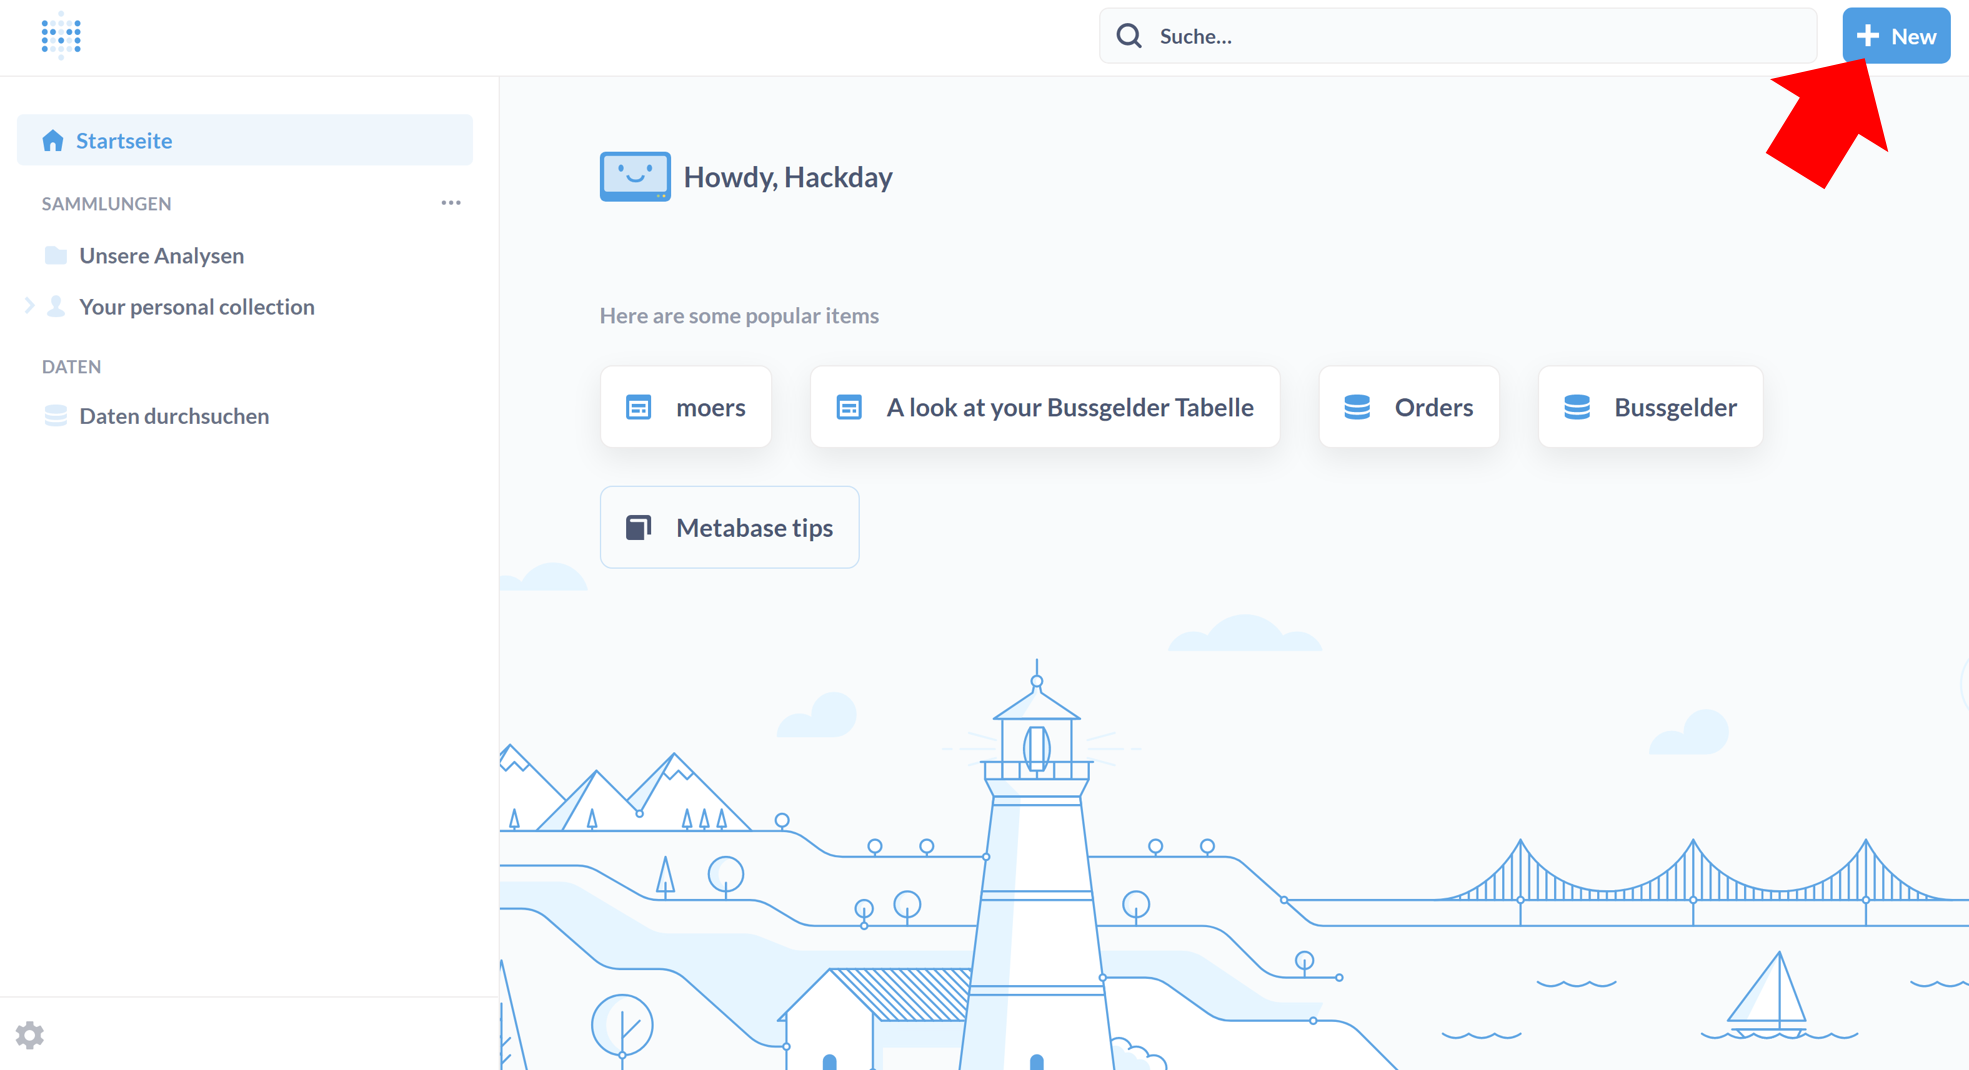
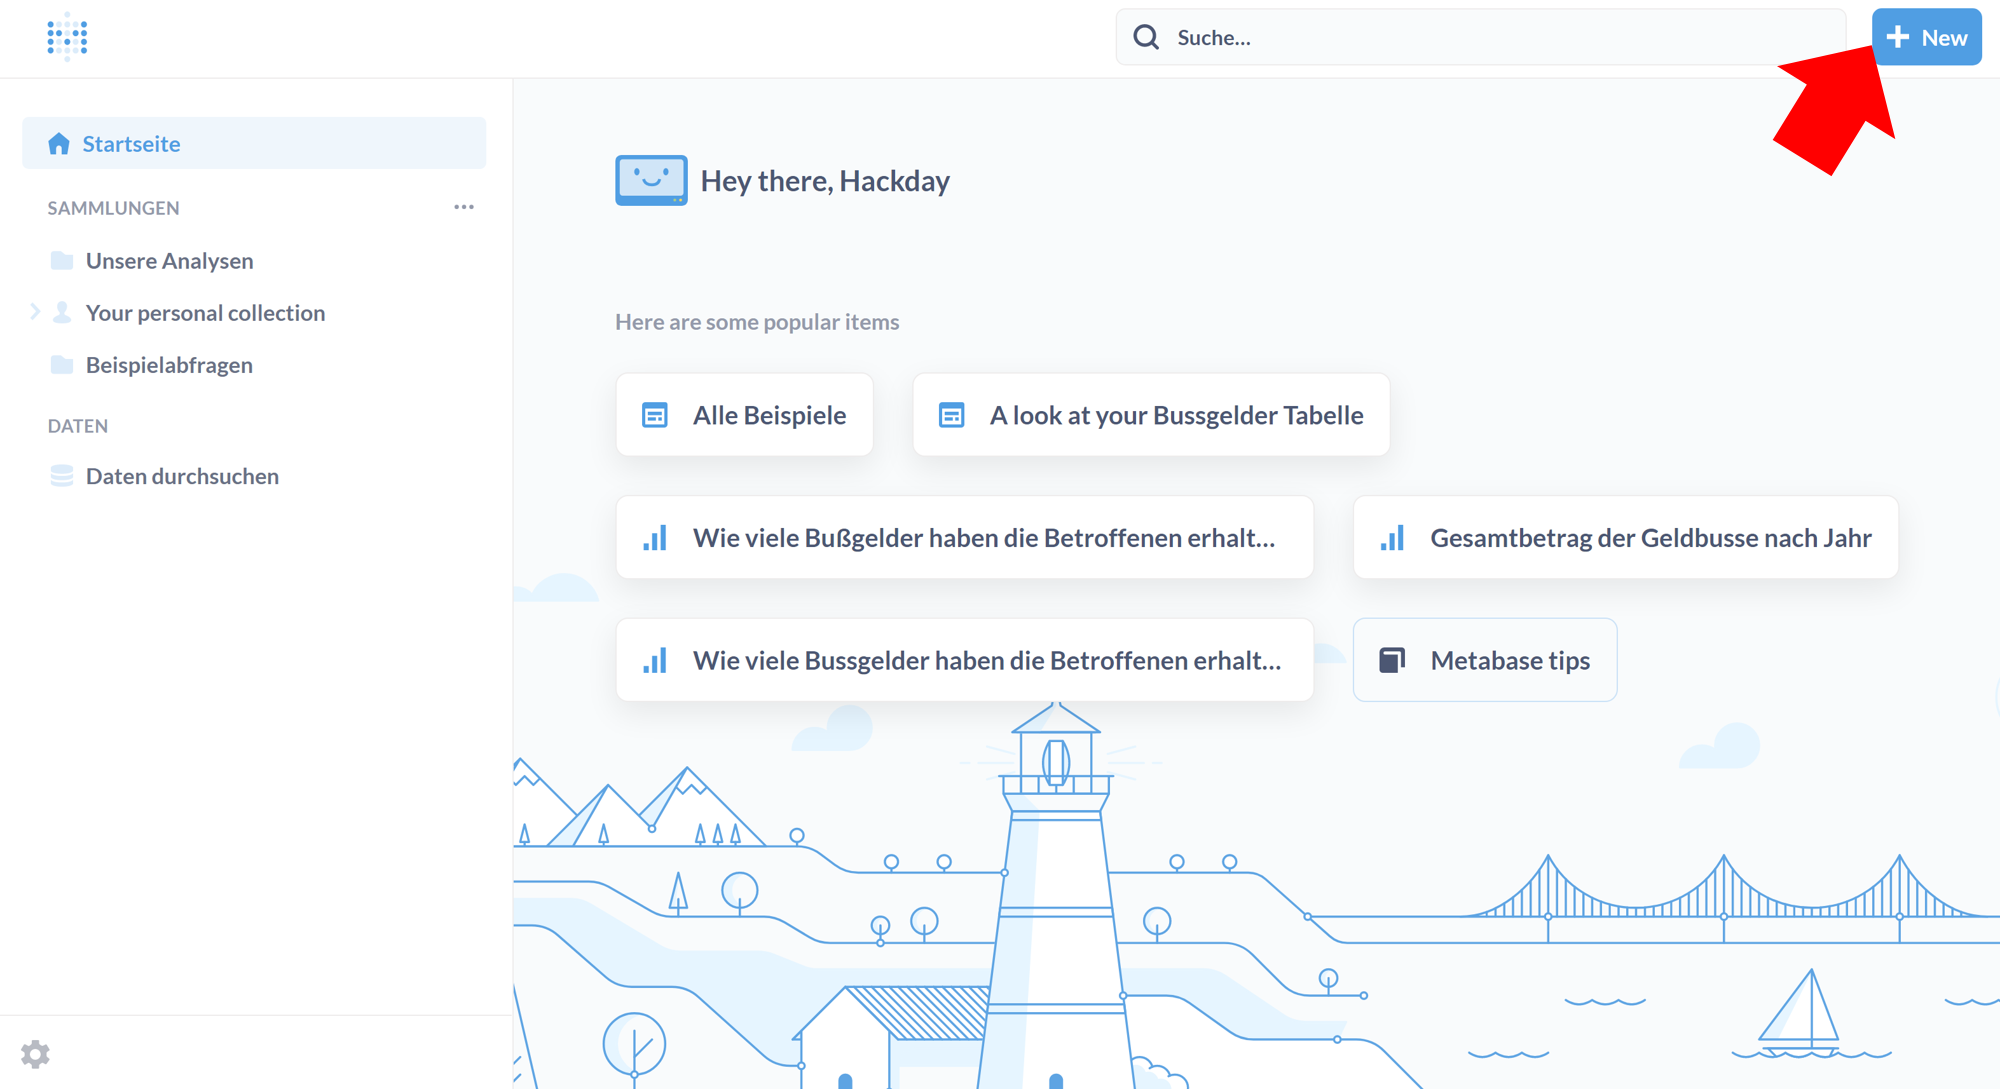
added examples

diff --git a/metabase.md b/metabase.md
@@ -1,15 +1,41 @@
 # Accessing Moers traffic data through Metabase
 
 1. Go to [metabase.open-diffix.org](https://metabase.open-diffix.org/)
-2. Login with username `hackday` and password `moers`
+2. Login with username `participant@moershackday.de` and password `moershackday2022`
 3. The dataset with the traffic data is called **Moers Hackday**
 4. The following shows how to find the SQL query editor for Moers Hackday
 
 ## Visual guide to finding the SQL editor
 
+First
+
+<img src="images/seq10.png" width="500">
+
+Second
+
+<img src="images/seq11.png" width="500">
+
+Third
+
+<img src="images/seq12.png" width="500">
+
+Fourth
+
+<img src="images/seq13.png" width="500">
+
+Fifth
+
+<img src="images/seq14.png" width="500">
+
+Last
+
+
+
 After login, you should see a page more-or-less like this:
 
 <img src="images/seq1.png" width="500">
+
+(Note that you can change the interface language by clicking on the gearbox on the lower left, clicking "Admin settings", and then "Localization".)
 
 Click on 'New' in the upper right corner (see red arrow) to get this pulldown menu:
 

diff --git a/README.md b/README.md
@@ -36,3 +36,5 @@ We offer several options for Hackday:
 [Metabase](https://www.metabase.com/) is a "Business Intelligence" tool that connects to a backend database system and let's you easily visualize data and build dashboards.  Click [here](http://metabase.open-diffix.org/public/dashboard/639cfe51-f9d5-4683-b76b-a9328f46a418) for an example of a simple dashboard built from the Moers traffic data.
 
 Metabase supports both SQL-based and GUI-based queries. The latter doesn't work well with `pg_diffix`, but the former does. [Click here](metabase.md) for details on how to login to our Metabase installation and query the Moers traffic data.
+
+### DBeaver SQL client
